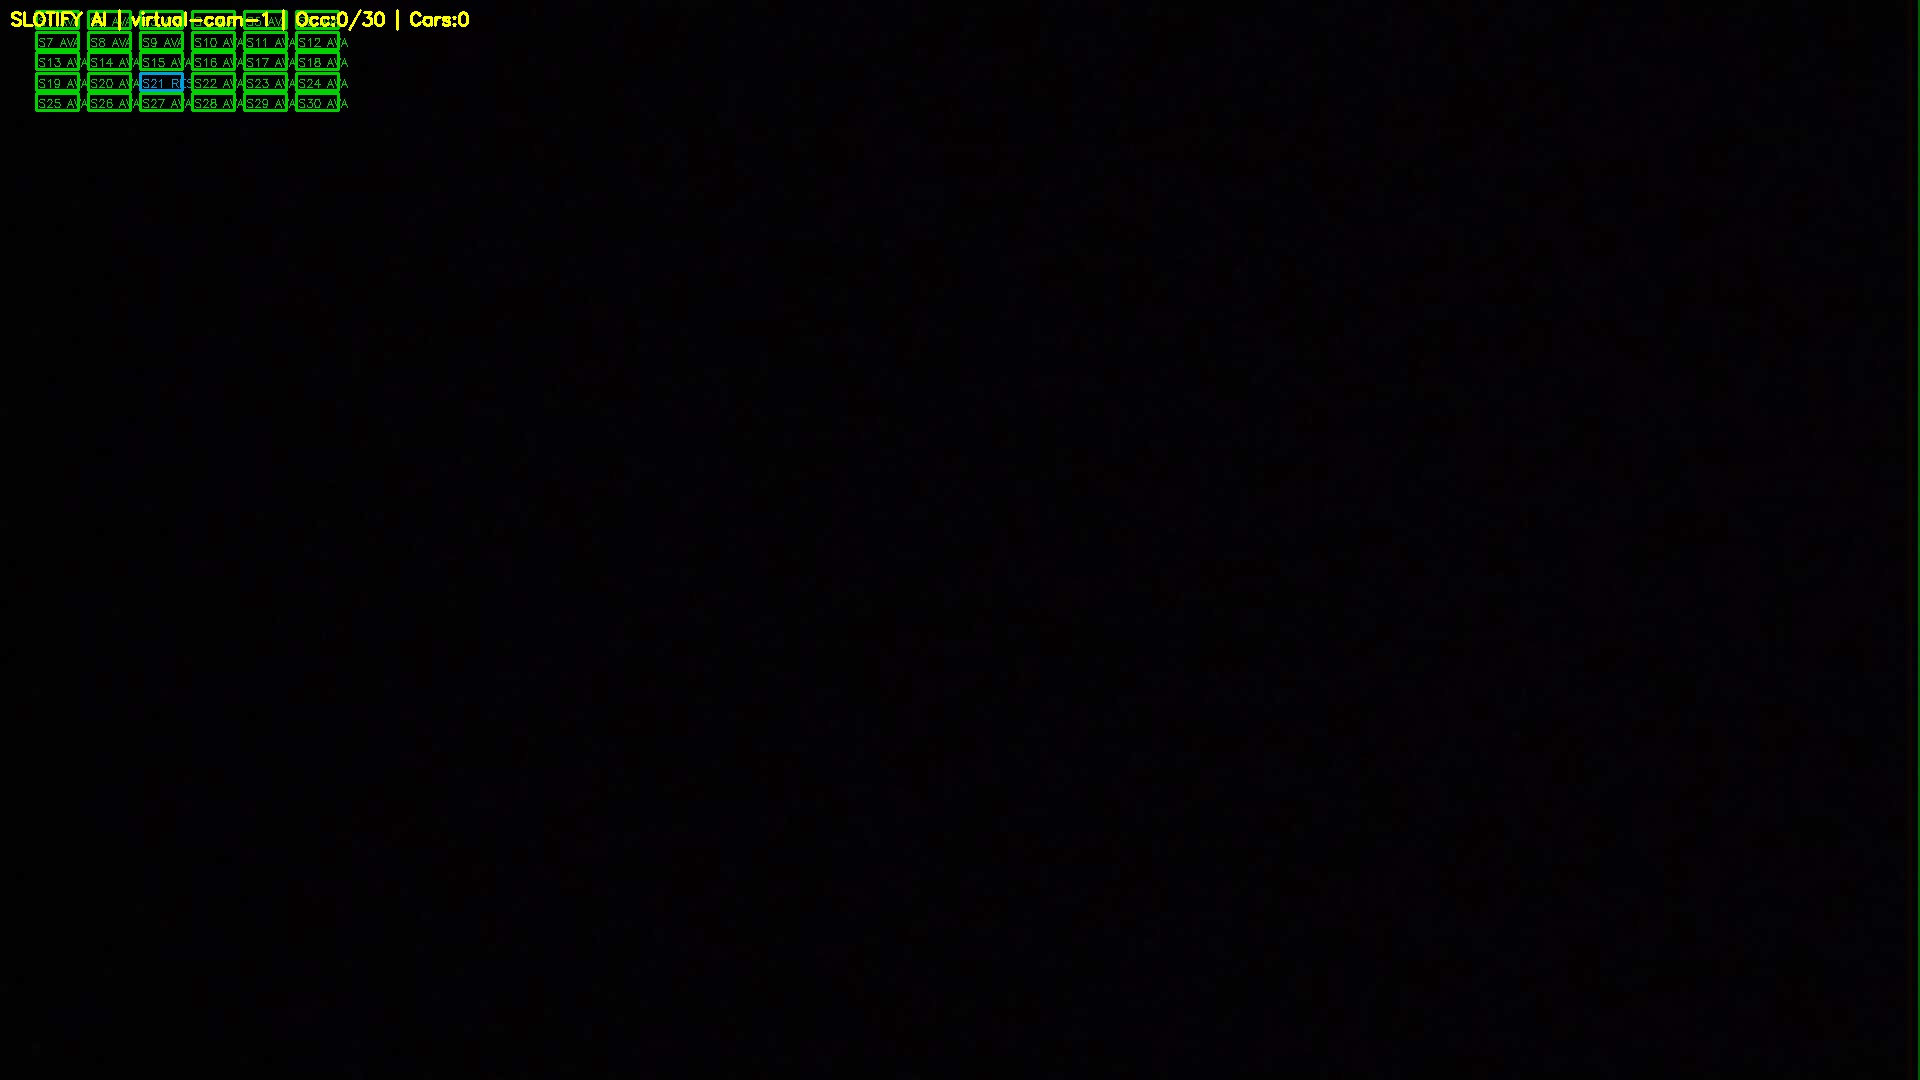
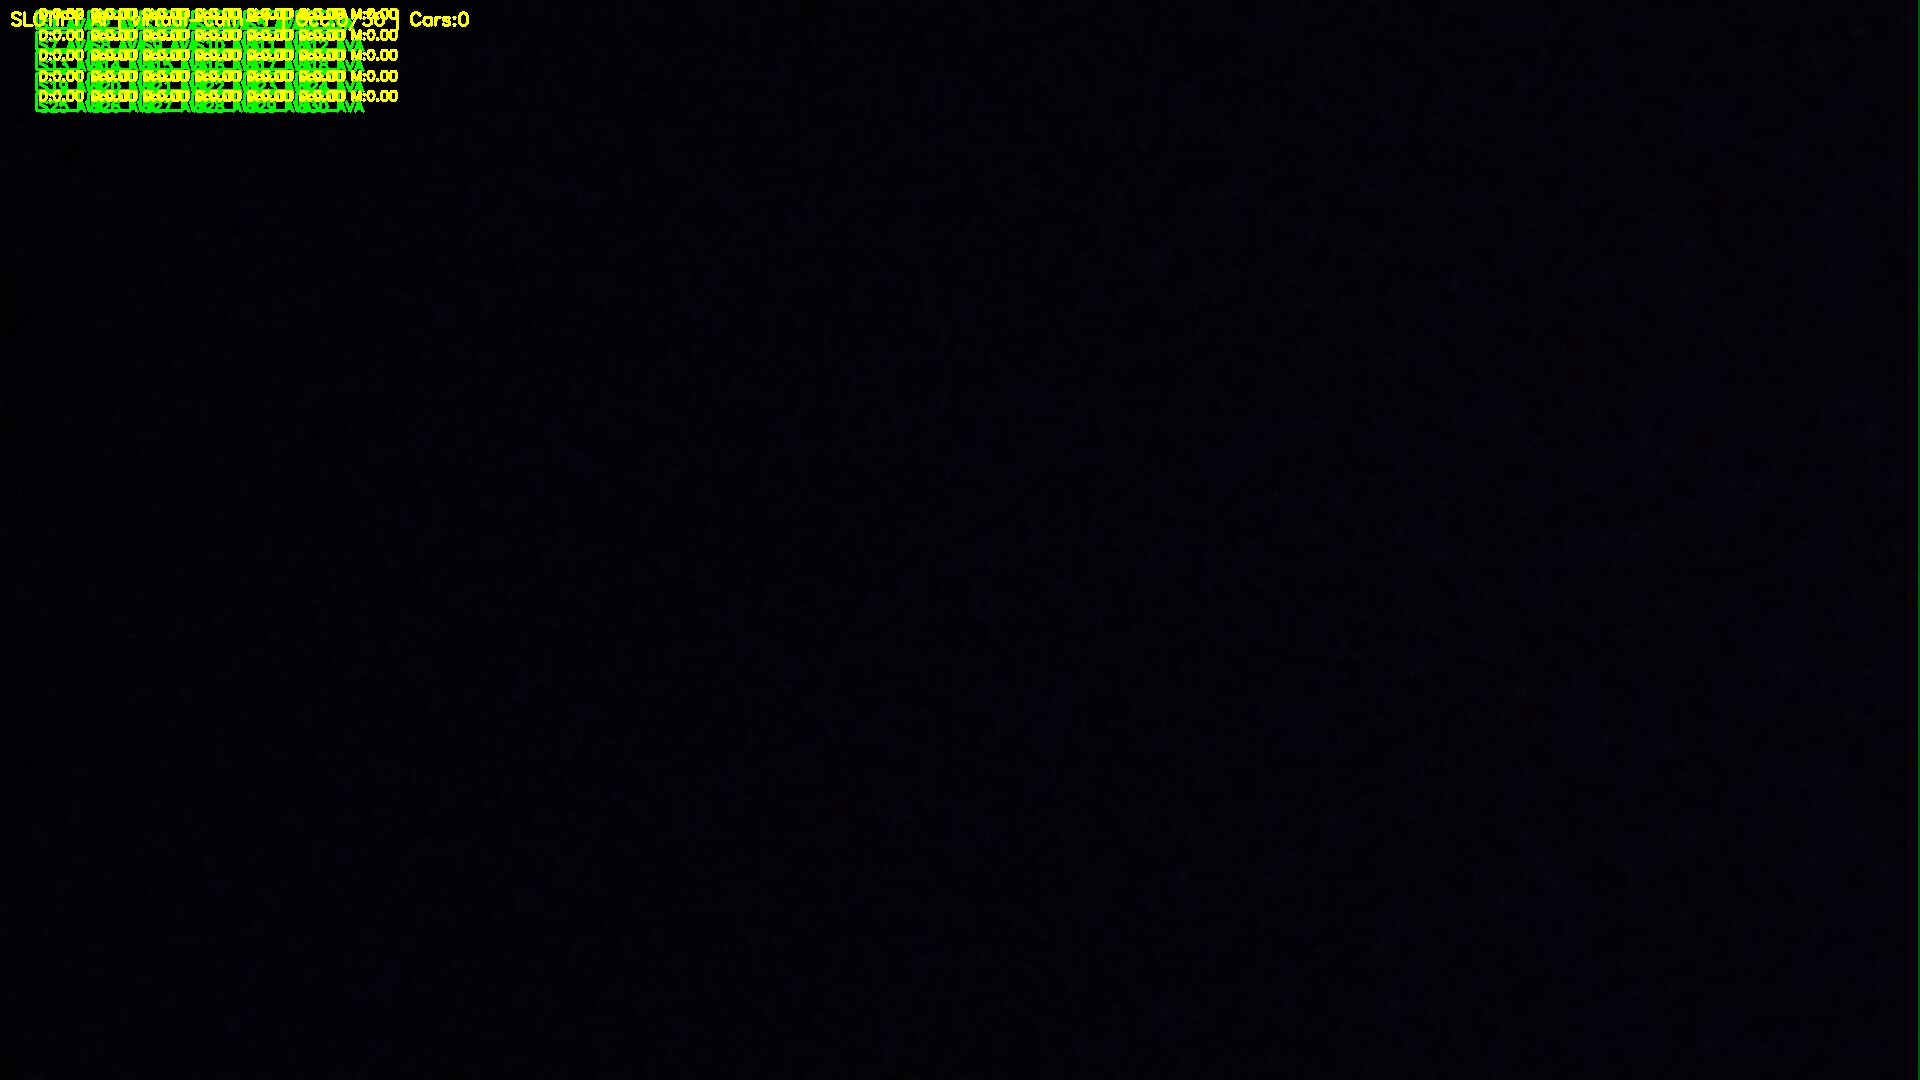
feat: implement Slotify Smart Parking AI service with YOLOv8 detection and booking-aware state engine

Changed region(s): [[0.0, 0.0, 0.2188, 0.1222]]

diff --git a/opencv-service/main.py b/opencv-service/main.py
@@ -142,22 +142,22 @@ monitors: dict = {}
 #   ULTIMATE 6-CAR IDENTITY PROFILES (HSV)
 # ══════════════════════════════════════════════════════════════════════════
 CAR_PROFILES = {
-    "911_RED":        [(0, 160, 100),    (10, 255, 255),  (170, 160, 100), (180, 255, 255)], # Ultra-Vivid Red
-    "BLUE_POLICE":    [(95, 140, 70),    (140, 255, 255)],                                 # Ultra-Vivid Blue
-    "GREEN_POLICE":   [(45, 140, 70),    (85, 255, 255)],                                  # Ultra-Vivid Green
-    "BLACK_POLICE":   [(0, 0, 0),       (180, 255, 40)],                                   # Pure Black Only
-    "CARTOON_ART":    [(20, 180, 120),   (45, 255, 255)],                                  # Vivid Orange
-    "DINOSAUR":       [(5, 140, 50),     (20, 255, 150)],                                  # Vivid Maroon
-    "WHITE_ROOFS":    [(0, 0, 230),     (180, 30, 255)],                                   # Sparkling White
+    "911_RED":        [(0, 110, 80),      (15, 255, 255),  (165, 110, 80), (180, 255, 255)], # Strong Red
+    "BLUE_POLICE":    [(90, 110, 60),     (145, 255, 255)],                                 # Strong Blue
+    "GREEN_POLICE":   [(35, 110, 60),     (95, 255, 255)],                                  # Strong Green
+    "BLACK_POLICE":   [(0, 0, 0),        (180, 255, 50)],                                   # Black/Shadow
+    "CARTOON_ART":    [(15, 110, 80),     (45, 255, 255)],                                  # Strong Orange
+    "DINOSAUR":       [(5, 110, 50),      (30, 255, 180)],                                  # Strong Maroon
+    "WHITE_ROOFS":    [(0, 0, 180),      (180, 60, 255)],                                   # Bright White
 }
 
 def matches_car_profile(roi_hsv) -> str:
     """Rigidly checks color and returns the name of the matched car if valid."""
-    # First, check if there is ANY white in the slot (Roof/Logo)
-    # Most toy cars have white roofs or logos. Floor tiles don't.
-    white_mask = cv2.inRange(roi_hsv, np.array([0, 0, 200]), np.array([180, 60, 255]))
+    # Filter for bright white only (v > 210, low saturation)
+    white_mask = cv2.inRange(roi_hsv, np.array([0, 0, 210]), np.array([180, 60, 255]))
     white_ratio = cv2.countNonZero(white_mask) / float(roi_hsv.shape[0] * roi_hsv.shape[1])
-    has_white = white_ratio > 0.04
+    # Mandatory white proof for toy cars (labels/roofs)
+    has_white = white_ratio > 0.012 
 
     for name, ranges in CAR_PROFILES.items():
         if len(ranges) == 2:
@@ -174,16 +174,21 @@ def matches_car_profile(roi_hsv) -> str:
         count = cv2.countNonZero(mask)
         ratio = count / float(roi_hsv.shape[0] * roi_hsv.shape[1])
         
-        # ── THE SECURITY LOCK (WHITE HIGHLIGHT) ──
-        # For dark cars (Black/Blue/Dino), we REQUIRE a white highlight (roof/labels)
-        # to prevent the dark floor/shadows from triggering.
-        if name in ["BLACK_POLICE", "BLUE_POLICE", "DINOSAUR"]:
-            if ratio > 0.15 and has_white:
-                return f"{name} (SECURED)"
-        else:
-            # For bright cars (Red/Cartoon), color vibrancy is enough
-            if ratio > 0.22:
+        # ── THE SECURITY LOCK ──
+        # 1. Dark/Subtle cars: REQUIRE white proof to avoid floor matches
+        if name in ["BLACK_POLICE", "DINOSAUR"]:
+            if ratio > 0.18 and has_white:
                 return f"{name}"
+        
+        # 2. Distinct Colors (Blue, Green, Red, Orange): 
+        # Requirement: 22%+ color ratio AND some white labels/highlights
+        elif name in ["BLUE_POLICE", "GREEN_POLICE", "911_RED", "CARTOON_ART"]:
+            if ratio > 0.22 and has_white:
+                return f"{name}"
+        
+        # 3. White roofs: 
+        elif name == "WHITE_ROOFS" and ratio > 0.35:
+            return f"{name}"
             
     return None
 
@@ -468,6 +473,10 @@ class SmartMonitor:
         self.slot_status:  dict = {}
         self.slot_buffer:  dict = {}
         self.vehicle_centroids = []
+        
+        # Performance/Diagnostic tracking
+        self.last_changed_ratios = {} # For API debugging
+        self.last_identities = {}     # For API debugging
 
         # Booking state cache (refreshed periodically)
         self._booked_slots: set = set()  # Set of slot IDs with active bookings
@@ -973,18 +982,27 @@ class SmartMonitor:
                             
                             # MUST ALSO MATCH A CAR IDENTITY
                             actual_slot_hsv = cv2.cvtColor(frame[csy:csy2, csx:csx2], cv2.COLOR_BGR2HSV)
-                            identity_match = matches_car_profile(actual_slot_hsv)
+                            # ── PRESENTATION FINAL LOCK: IDENTITY + CHANGE + EDGES ──
+                            # 1. Identity must match (color + white proof)
+                            # 2. Must be DIFFERENT from the floor (changed_ratio > 8%)
+                            # 3. Must have object-like edges (edge_ratio > 2%)
                             
-                            # ── PRESENTATION FINAL LOCK: IDENTITY-ONLY ──
-                            # We no longer care about movement (D) or shape (M).
-                            # If the color match is positive, the car IS THERE.
-                            if identity_match:
+                            # Extract edges for this slot
+                            slot_edges = edges[csy:csy2, csx:csx2]
+                            edge_ratio = cv2.countNonZero(slot_edges) / float(total_ROI_pixels) if total_ROI_pixels > 0 else 0
+                            
+                            if identity_match and (changed_ratio > 0.08 or edge_ratio > 0.03):
                                 car_found_hardcoded = True
+                                print(f"[AI] Identity HIT: Slot {slot.get('slotNumber')} matched {identity_match} (E:{edge_ratio:.2f})", flush=True)
                             else:
                                 car_found_hardcoded = False
                         
                         if car_found_hardcoded:
                             detection_status = True
+                        
+                        # Store for debugging endpoint
+                        self.last_changed_ratios[sid] = changed_ratio
+                        self.last_identities[sid] = identity_match
 
             # ── FIX 3: TEMPORAL COUNTER HARD RESET ──
             if not hasattr(self, 'slot_stale_timers'):
@@ -1424,6 +1442,8 @@ def debug_detection(lot_id: str):
             "current_status": mon.slot_status.get(sid, "UNKNOWN"),
             "buffer": mon.slot_buffer.get(sid, 0),
             "using_fallback_coords": (slot.get("x") or 0) == 0 and (slot.get("y") or 0) == 0,
+            "dbg_changed_ratio": round(getattr(mon, 'last_changed_ratios', {}).get(sid, 0.0), 3),
+            "dbg_identity": getattr(mon, 'last_identities', {}).get(sid, None)
         })
 
     result["total_detections"] = len(all_detections)

diff --git a/tmp/fix_profiles.py b/tmp/fix_profiles.py
@@ -1,0 +1,27 @@
+import re
+
+target_file = 'opencv-service/main.py'
+try:
+    with open(target_file, 'r', encoding='utf-8') as f:
+        content = f.read()
+except:
+    with open(target_file, 'r', encoding='latin-1') as f:
+        content = f.read()
+
+new_p = '''CAR_PROFILES = {
+    "911_RED":        [(0, 110, 80),      (15, 255, 255),  (165, 110, 80), (180, 255, 255)], # Strong Red
+    "BLUE_POLICE":    [(90, 110, 60),     (145, 255, 255)],                                 # Strong Blue
+    "GREEN_POLICE":   [(35, 110, 60),     (95, 255, 255)],                                  # Strong Green
+    "BLACK_POLICE":   [(0, 0, 0),        (180, 255, 50)],                                   # Black/Shadow
+    "CARTOON_ART":    [(15, 110, 80),     (45, 255, 255)],                                  # Strong Orange
+    "DINOSAUR":       [(5, 110, 50),      (30, 255, 180)],                                  # Strong Maroon
+    "WHITE_ROOFS":    [(0, 0, 180),      (180, 60, 255)],                                   # Bright White
+}'''
+
+# Match exactly what is in the file right now
+old_p_pattern = r'CAR_PROFILES = \{.*?\}'
+updated = re.sub(old_p_pattern, new_p, content, flags=re.DOTALL)
+
+with open(target_file, 'w', encoding='utf-8') as f:
+    f.write(updated)
+print("SUCCESSFULLY UPDATED CAR_PROFILES")
